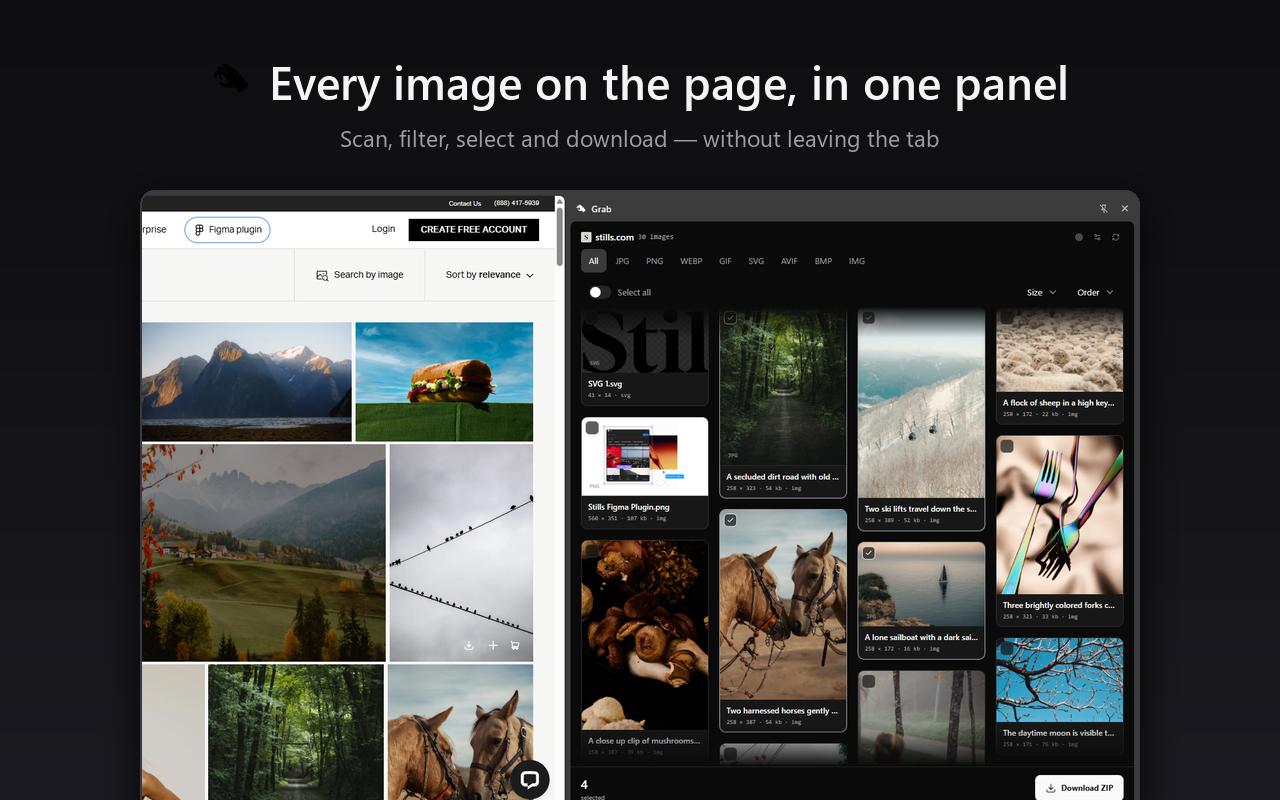
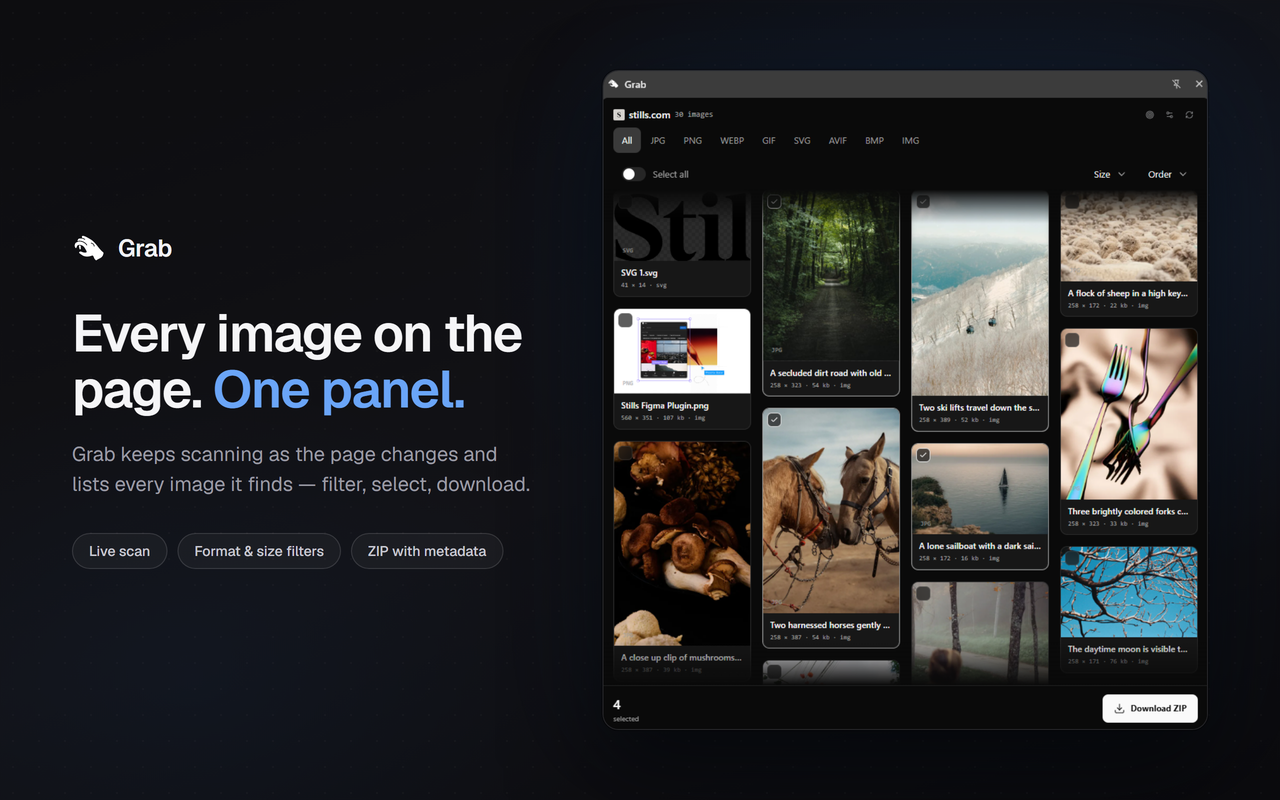
docs: professional store tiles rendered from HTML slides (Geist, headless Chrome)

diff --git a/docs/store/src/slide-detail.html b/docs/store/src/slide-detail.html
@@ -1,0 +1,44 @@
+<!doctype html><html><head><meta charset="utf-8"><style>
+@font-face { font-family:'Geist'; font-weight:400; src:url('../../../node_modules/@fontsource/geist/files/geist-latin-400-normal.woff2') format('woff2'); }
+@font-face { font-family:'Geist'; font-weight:500; src:url('../../../node_modules/@fontsource/geist/files/geist-latin-500-normal.woff2') format('woff2'); }
+@font-face { font-family:'Geist'; font-weight:600; src:url('../../../node_modules/@fontsource/geist/files/geist-latin-600-normal.woff2') format('woff2'); }
+* { margin:0; padding:0; box-sizing:border-box; }
+html,body { width:1280px; height:800px; overflow:hidden; }
+body {
+  font-family:'Geist',sans-serif;
+  background:
+    radial-gradient(900px 600px at 78% 30%, rgba(26,115,232,0.10), transparent 60%),
+    radial-gradient(700px 500px at 15% 85%, rgba(26,115,232,0.05), transparent 60%),
+    linear-gradient(160deg, #0d0d10 0%, #121216 55%, #0b0b0e 100%);
+  display:flex; align-items:center; padding:0 72px; gap:64px; position:relative;
+}
+body::before {
+  content:''; position:absolute; inset:0;
+  background-image:radial-gradient(rgba(255,255,255,0.028) 1px, transparent 1px);
+  background-size:26px 26px;
+}
+.text { position:relative; width:460px; flex:none; }
+.brand { display:flex; align-items:center; gap:12px; margin-bottom:40px; }
+.brand img { width:34px; height:34px; filter:brightness(0) invert(1); }
+.brand span { font-size:24px; font-weight:600; color:#f2f2f5; letter-spacing:-0.01em; }
+h1 { font-size:52px; font-weight:600; color:#f5f5f7; line-height:1.08; letter-spacing:-0.025em; margin-bottom:22px; }
+h1 em { font-style:normal; color:#6aa5f8; }
+p { font-size:20px; font-weight:400; color:#9b9ba4; line-height:1.5; margin-bottom:34px; }
+.chips { display:flex; flex-wrap:wrap; gap:10px; }
+.chip { font-size:14px; font-weight:500; color:#c9c9d2; border:1px solid rgba(255,255,255,0.13);
+  background:rgba(255,255,255,0.04); border-radius:999px; padding:8px 16px; }
+.shot { position:relative; flex:1; display:flex; justify-content:flex-end; }
+.shot img {
+  height:660px; border-radius:16px;
+  border:1px solid rgba(255,255,255,0.10);
+  box-shadow:0 40px 90px rgba(0,0,0,0.55), 0 0 0 1px rgba(0,0,0,0.4), 0 0 120px rgba(26,115,232,0.07);
+}
+</style></head><body>
+<div class="text">
+  <div class="brand"><img src="../../../public/icons/icon-light-128.png"><span>Grab</span></div>
+  <h1>Preview first. <em>Then download.</em></h1>
+  <p>Filename, dimensions and description at a glance — download one, drag it out, or ZIP them all.</p>
+  <div class="chips"><span class="chip">One-click download</span><span class="chip">Drag &amp; drop</span><span class="chip">File size on every card</span></div>
+</div>
+<div class="shot"><img src="panel-detail.png"></div>
+</body></html>

diff --git a/docs/store/src/slide-grid.html b/docs/store/src/slide-grid.html
@@ -1,0 +1,44 @@
+<!doctype html><html><head><meta charset="utf-8"><style>
+@font-face { font-family:'Geist'; font-weight:400; src:url('../../../node_modules/@fontsource/geist/files/geist-latin-400-normal.woff2') format('woff2'); }
+@font-face { font-family:'Geist'; font-weight:500; src:url('../../../node_modules/@fontsource/geist/files/geist-latin-500-normal.woff2') format('woff2'); }
+@font-face { font-family:'Geist'; font-weight:600; src:url('../../../node_modules/@fontsource/geist/files/geist-latin-600-normal.woff2') format('woff2'); }
+* { margin:0; padding:0; box-sizing:border-box; }
+html,body { width:1280px; height:800px; overflow:hidden; }
+body {
+  font-family:'Geist',sans-serif;
+  background:
+    radial-gradient(900px 600px at 78% 30%, rgba(26,115,232,0.10), transparent 60%),
+    radial-gradient(700px 500px at 15% 85%, rgba(26,115,232,0.05), transparent 60%),
+    linear-gradient(160deg, #0d0d10 0%, #121216 55%, #0b0b0e 100%);
+  display:flex; align-items:center; padding:0 72px; gap:64px; position:relative;
+}
+body::before {
+  content:''; position:absolute; inset:0;
+  background-image:radial-gradient(rgba(255,255,255,0.028) 1px, transparent 1px);
+  background-size:26px 26px;
+}
+.text { position:relative; width:460px; flex:none; }
+.brand { display:flex; align-items:center; gap:12px; margin-bottom:40px; }
+.brand img { width:34px; height:34px; filter:brightness(0) invert(1); }
+.brand span { font-size:24px; font-weight:600; color:#f2f2f5; letter-spacing:-0.01em; }
+h1 { font-size:52px; font-weight:600; color:#f5f5f7; line-height:1.08; letter-spacing:-0.025em; margin-bottom:22px; }
+h1 em { font-style:normal; color:#6aa5f8; }
+p { font-size:20px; font-weight:400; color:#9b9ba4; line-height:1.5; margin-bottom:34px; }
+.chips { display:flex; flex-wrap:wrap; gap:10px; }
+.chip { font-size:14px; font-weight:500; color:#c9c9d2; border:1px solid rgba(255,255,255,0.13);
+  background:rgba(255,255,255,0.04); border-radius:999px; padding:8px 16px; }
+.shot { position:relative; flex:1; display:flex; justify-content:flex-end; }
+.shot img {
+  height:660px; border-radius:16px;
+  border:1px solid rgba(255,255,255,0.10);
+  box-shadow:0 40px 90px rgba(0,0,0,0.55), 0 0 0 1px rgba(0,0,0,0.4), 0 0 120px rgba(26,115,232,0.07);
+}
+</style></head><body>
+<div class="text">
+  <div class="brand"><img src="../../../public/icons/icon-light-128.png"><span>Grab</span></div>
+  <h1>Every image on the page. <em>One panel.</em></h1>
+  <p>Grab keeps scanning as the page changes and lists every image it finds — filter, select, download.</p>
+  <div class="chips"><span class="chip">Live scan</span><span class="chip">Format &amp; size filters</span><span class="chip">ZIP with metadata</span></div>
+</div>
+<div class="shot"><img src="panel-grid.png"></div>
+</body></html>

diff --git a/docs/store/src/slide-inspector.html b/docs/store/src/slide-inspector.html
@@ -1,0 +1,44 @@
+<!doctype html><html><head><meta charset="utf-8"><style>
+@font-face { font-family:'Geist'; font-weight:400; src:url('../../../node_modules/@fontsource/geist/files/geist-latin-400-normal.woff2') format('woff2'); }
+@font-face { font-family:'Geist'; font-weight:500; src:url('../../../node_modules/@fontsource/geist/files/geist-latin-500-normal.woff2') format('woff2'); }
+@font-face { font-family:'Geist'; font-weight:600; src:url('../../../node_modules/@fontsource/geist/files/geist-latin-600-normal.woff2') format('woff2'); }
+* { margin:0; padding:0; box-sizing:border-box; }
+html,body { width:1280px; height:800px; overflow:hidden; }
+body {
+  font-family:'Geist',sans-serif;
+  background:
+    radial-gradient(900px 600px at 78% 30%, rgba(26,115,232,0.10), transparent 60%),
+    radial-gradient(700px 500px at 15% 85%, rgba(26,115,232,0.05), transparent 60%),
+    linear-gradient(160deg, #0d0d10 0%, #121216 55%, #0b0b0e 100%);
+  display:flex; align-items:center; padding:0 72px; gap:64px; position:relative;
+}
+body::before {
+  content:''; position:absolute; inset:0;
+  background-image:radial-gradient(rgba(255,255,255,0.028) 1px, transparent 1px);
+  background-size:26px 26px;
+}
+.text { position:relative; width:460px; flex:none; }
+.brand { display:flex; align-items:center; gap:12px; margin-bottom:40px; }
+.brand img { width:34px; height:34px; filter:brightness(0) invert(1); }
+.brand span { font-size:24px; font-weight:600; color:#f2f2f5; letter-spacing:-0.01em; }
+h1 { font-size:52px; font-weight:600; color:#f5f5f7; line-height:1.08; letter-spacing:-0.025em; margin-bottom:22px; }
+h1 em { font-style:normal; color:#6aa5f8; }
+p { font-size:20px; font-weight:400; color:#9b9ba4; line-height:1.5; margin-bottom:34px; }
+.chips { display:flex; flex-wrap:wrap; gap:10px; }
+.chip { font-size:14px; font-weight:500; color:#c9c9d2; border:1px solid rgba(255,255,255,0.13);
+  background:rgba(255,255,255,0.04); border-radius:999px; padding:8px 16px; }
+.shot { position:relative; flex:1; display:flex; justify-content:flex-end; }
+.shot img {
+  height:620px; border-radius:16px;
+  border:1px solid rgba(255,255,255,0.10);
+  box-shadow:0 40px 90px rgba(0,0,0,0.55), 0 0 0 1px rgba(0,0,0,0.4), 0 0 120px rgba(26,115,232,0.07);
+}
+</style></head><body>
+<div class="text">
+  <div class="brand"><img src="../../../public/icons/icon-light-128.png"><span>Grab</span></div>
+  <h1>Pick images <em>straight from the page</em></h1>
+  <p>Turn on the inspector, hover any image to highlight it, click to select it in the panel.</p>
+  <div class="chips"><span class="chip">Works under overlays</span><span class="chip">SVG &amp; canvas too</span><span class="chip">Esc to exit</span></div>
+</div>
+<div class="shot"><img src="page-inspector.png"></div>
+</body></html>